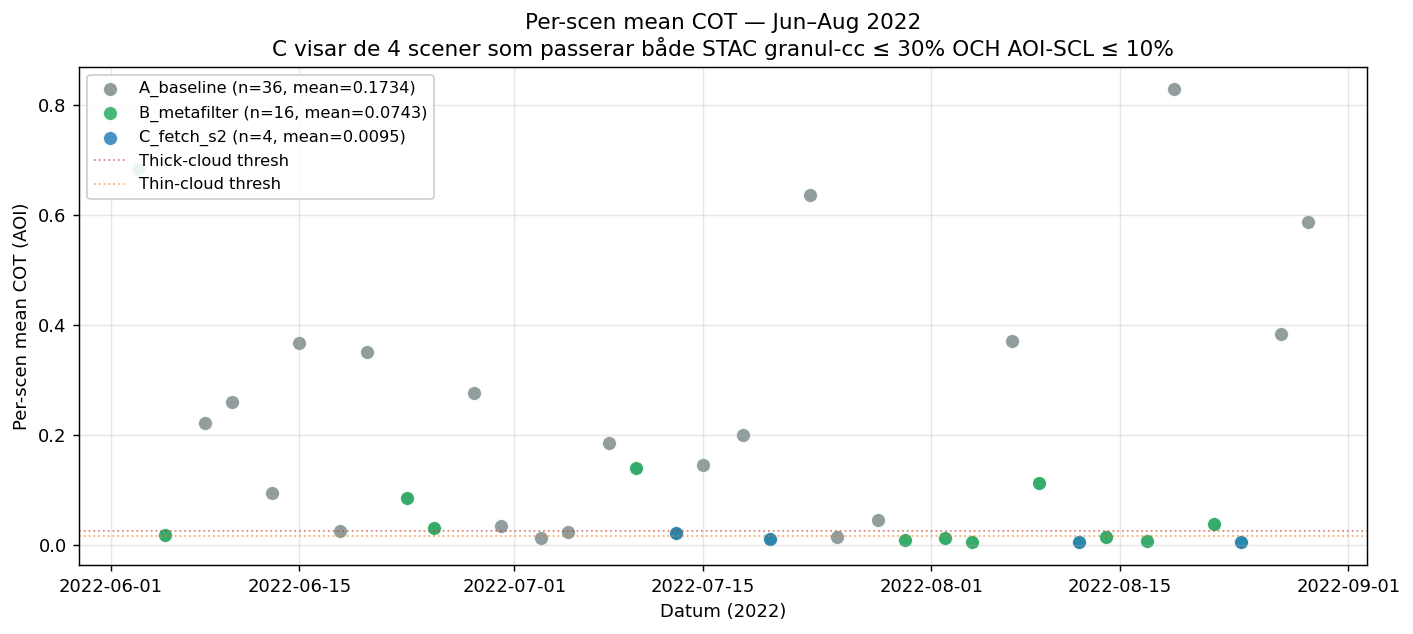
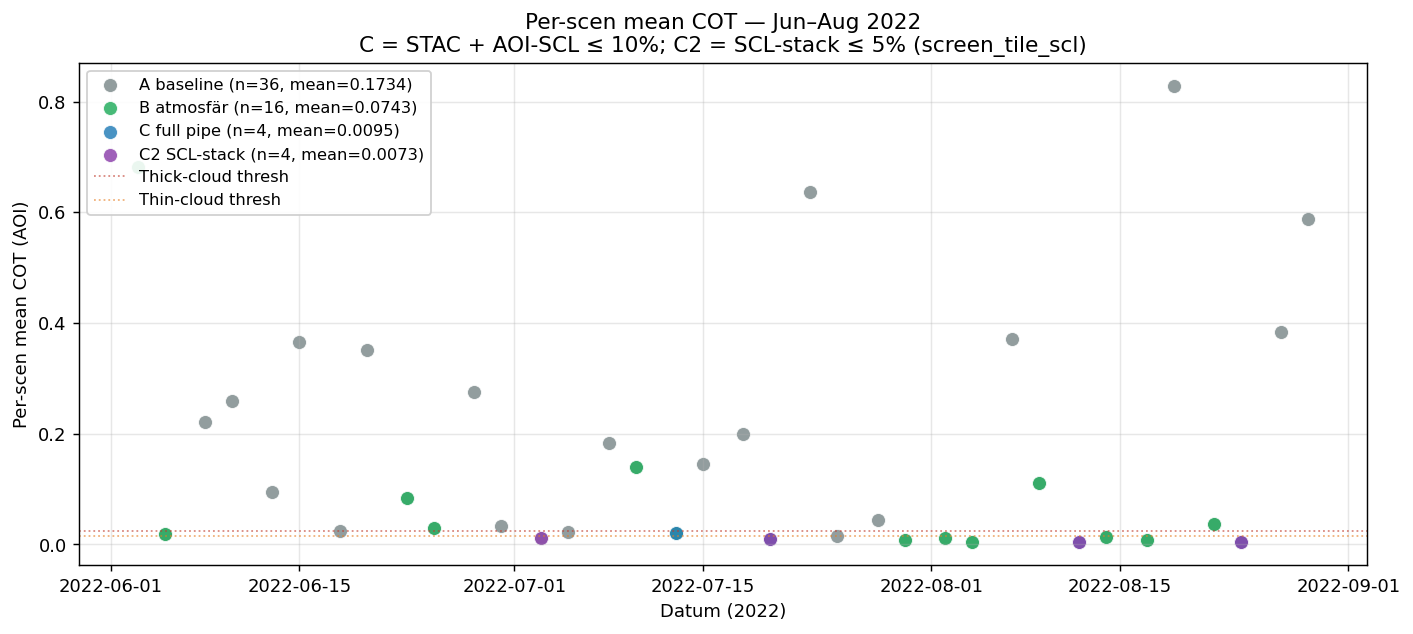
feat(showcase): add C2 set mirroring screen_tile_scl SCL-stack pipeline
ImintEngine has two SCL-based filtering paths in production:

  1. fetch_des_data + cdse_s2.py (per-scene, threshold 0.10)
     → already captured by C "Full pipeline" set

  2. scripts/batch_fetch_openeo.py:screen_tile_scl()
     → ONE openEO call fetches the SCL band for the entire growing
       season, aggregates AOI cloud fraction server-side per date,
       and picks the cleanest scene per frame window.
     → matches scripts/prescreen_scl.py early-exit threshold of 0.05.

This commit adds C2 to the Atmosfär tab to expose path 2:

  C  — STAC eo:cloud_cover ≤ 30 % + AOI-SCL ≤ 10 %  (n=4, mean COT 0.0095)
  C2 — SCL-stack ≤ 5 %, no STAC filter             (n=4, mean COT 0.0073)

C and C2 are both 4-scene sets but only share 3 dates:
  - C  picks 2022-07-13 (STAC 21%, SCL 8%) that C2 rejects.
  - C2 picks 2022-07-03 (STAC 43%, SCL 5%) that C rejects (STAC > 30%).

Findings:
  - C2's stricter SCL threshold beats C on mean COT (0.0073 vs 0.0095)
    despite skipping the STAC pre-filter — the SCL signal dominates.
  - C2's pipeline is ~36× cheaper in API calls (1 openEO call with
    server-side temporal reduction vs 36 spread HTTP fetches),
    relevant for LULC training across 1000+ tiles.

C2 is computed from the same SCL data already fetched by
refetch_c_with_scl.py — same AOI cloud-fraction signal, only the
threshold and pipeline architecture differ. Frame galleries reuse
A_baseline renders since the underlying scenes are identical.
[…]

diff --git a/docs/index.html b/docs/index.html
@@ -558,6 +558,7 @@
         <div class="summary-section">
             <div class="summary-card"><h4>Mean COT (B atmosfär)</h4><div class="value">0.0743</div><div class="detail">16 scener · 57 % lägre än A</div></div>
             <div class="summary-card"><h4>Mean COT (C full pipeline)</h4><div class="value">0.0095</div><div class="detail">STAC + AOI-SCL · 4 scener</div></div>
+            <div class="summary-card"><h4>Mean COT (C2 SCL-stack)</h4><div class="value">0.0073</div><div class="detail">screen_tile_scl ≤ 5 % · 4 scener</div></div>
             <div class="summary-card"><h4>Mean COT (A baseline)</h4><div class="value">0.1734</div><div class="detail">Alla 36 scener</div></div>
             <div class="summary-card"><h4>SCL-recall (B)</h4><div class="value">5 / 6</div><div class="detail">SCL-godkända dagar fångade av B</div></div>
             <div class="summary-card"><h4>Tidsbesparing</h4><div class="value">−49 %</div><div class="detail">B mot A · 6 workers DES openEO</div></div>
@@ -597,6 +598,15 @@
                             (Sen2Cor scen-klassificering över AOI). Av 10 STAC-passande scener avvisas 6 av AOI-SCL.</td>
                         <td>4</td><td>173 s</td><td><strong>0.0095</strong></td>
                     </tr>
+                    <tr>
+                        <td><strong>C2 — SCL-stack</strong></td>
+                        <td>Speglar <code>scripts/batch_fetch_openeo.py:screen_tile_scl()</code> —
+                            ETT openEO-anrop hämtar SCL-bandet för hela perioden,
+                            server-side temporal aggregering, AOI-SCL ≤ 5 %
+                            (matchar <code>scripts/prescreen_scl.py</code> early-exit-tröskel).
+                            STAC-filtret bypassas (loose <code>max_cloud_cover=50</code>).</td>
+                        <td>4</td><td>1 anrop*</td><td><strong>0.0073</strong></td>
+                    </tr>
                 </tbody>
             </table>
 
@@ -619,6 +629,7 @@
             <div id="era5-set-tabs" style="margin-top: 16px; display:flex; gap:8px; flex-wrap:wrap;">
                 <a href="#" class="era5-set-tab active" data-set="B_metafilter">B — Atmosfär-filter (16)</a>
                 <a href="#" class="era5-set-tab" data-set="C_fetch_s2">C — Full pipeline (4)</a>
+                <a href="#" class="era5-set-tab" data-set="D_scl_stack">C2 — SCL-stack (4)</a>
                 <a href="#" class="era5-set-tab" data-set="A_baseline">A — Baseline (36)</a>
             </div>
 
@@ -652,16 +663,26 @@
                 Av de 6 dagar i hela perioden som passerar produktionspipelinens AOI-SCL-filter
                 (≤ 10 % moln över AOI) fångas 5 också av atmosfärfiltret — en
                 <strong>SCL-recall på 83 %</strong>, mätt som prefilter mot postfilter.
-                Den enda missade dagen (2022-07-03) hade STAC granul-cc 43 % och avvisas alltså
-                ändå av STAC-filtret.
+                Den missade dagen (2022-07-03) hade STAC granul-cc 43 % och avvisas
+                ändå av STAC-filtret i C — men släpps igenom av C2 nedan.
             </p>
             <p>
-                Den fullständiga pipelinen (C: STAC granul-cc + AOI-SCL) ger 4 användbara
-                tiles av 36 möjliga med mycket låg mean COT (0.0095). Atmosfärfiltret (B)
-                ger 16 tiles med hög datakvalitet (mean COT 0.0743) — användbart när
-                träningsmodellen tål viss molnpåverkan men behöver fler exempel.
-                Kombinationen B + AOI-SCL post-filter ger 5 ultra-rena tiles med
-                <strong>56 % färre fetches</strong> än att probba alla 36 dagar.
+                <strong>C vs C2 — två SCL-pipelines i samma repo:</strong>
+                Imint har redan en alternativ SCL-stack-pipeline
+                (<code>scripts/batch_fetch_openeo.py:screen_tile_scl</code>) som hämtar
+                SCL-bandet i ett enda openEO-anrop över hela tidsperioden, aggregerar
+                server-side, och plockar dagar med ≤ 5 % AOI-cloud. Den ger
+                4 scener (samma antal som C) men <strong>inte samma 4 dagar</strong>:
+                C2 accepterar 2022-07-03 (STAC-cc 43 % men SCL 5 %) som C avvisar,
+                och avvisar 2022-07-13 (SCL 8 %) som C accepterar. C2 har därför
+                lägre mean COT (0.0073 vs 0.0095) trots samma antal tiles —
+                den strängare SCL-tröskeln dominerar STAC-pre-filtret.
+            </p>
+            <p>
+                Praktiskt: C2:s pipeline är dessutom <strong>~36× billigare</strong> än C
+                räknat i API-anrop (1 openEO-anrop vs 36 spridda HTTP-fetches),
+                eftersom temporal-aggregeringen sker server-side. För LULC-träningens
+                stora tile-set (~1000+ tiles) är skillnaden mätbar i kreditförbrukning.
             </p>
             <p>
                 Per-datum-data + SCL-pass/reject finns i
